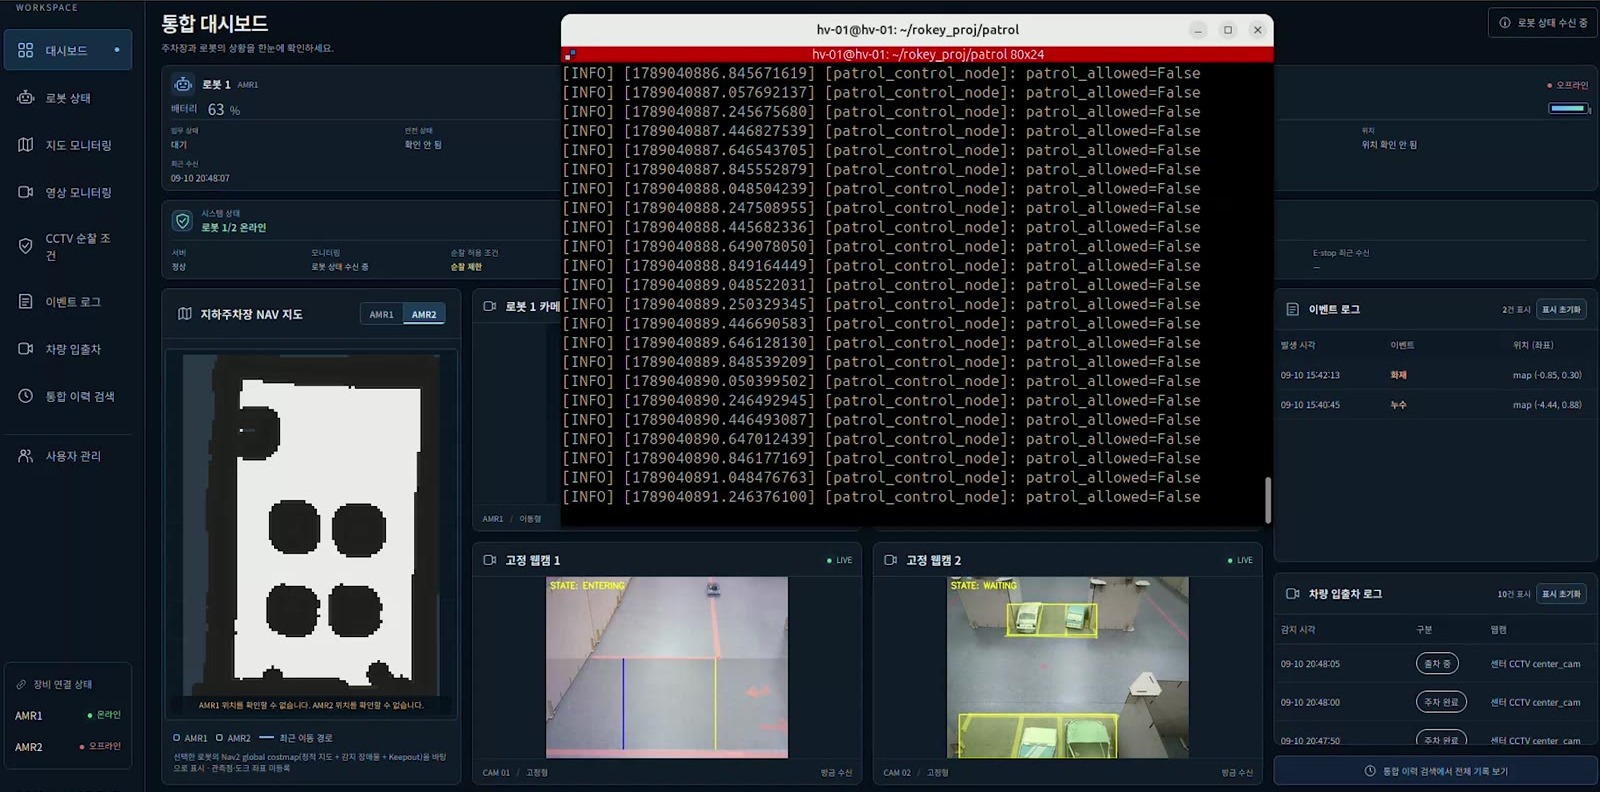
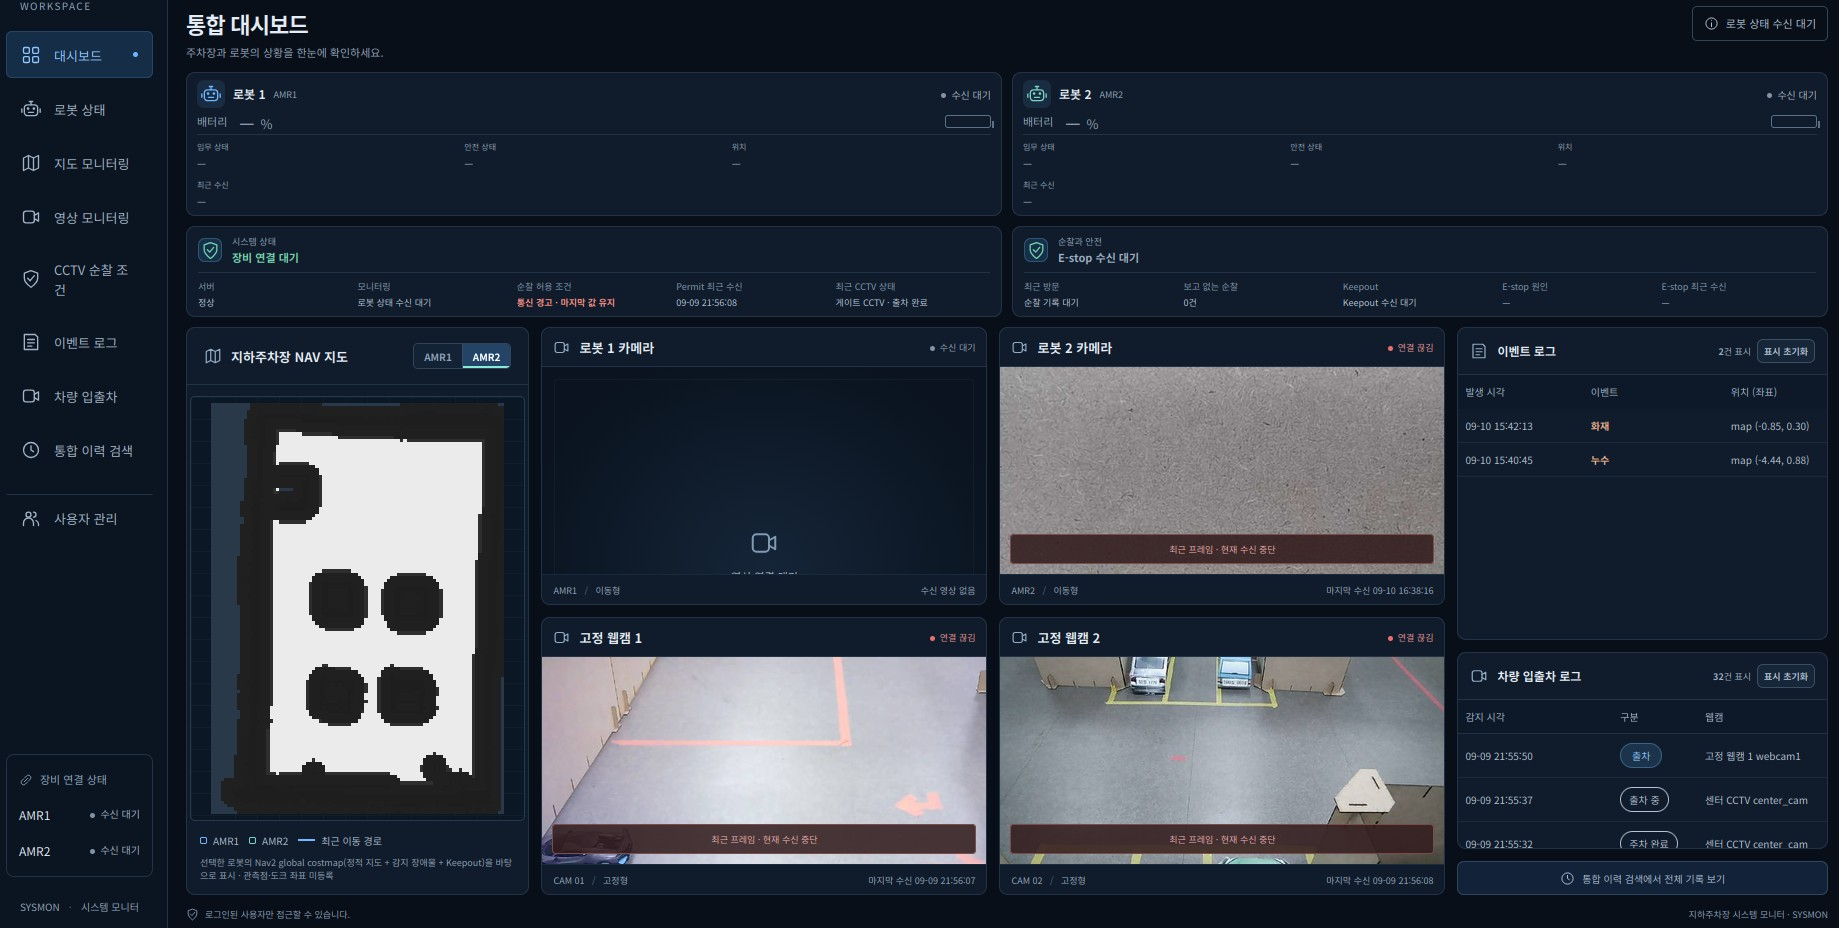
docs: 시스템 모니터 대시보드 사진을 발표 자료 원본 캡처로 교체

diff --git a/README.md b/README.md
@@ -191,7 +191,7 @@ Gate는 차량 bbox 중심이 두 판정선을 어떤 순서로 넘는지 보고
 
 <p align="center">
   <img src="docs/images/dashboard.jpg" width="760" alt="시스템 모니터 통합 대시보드"><br>
-  <sub>통합 대시보드 — 지도 · 로봇 카메라 · CCTV 4분할 영상 · 이벤트와 차량 로그 (가운데는 관제 노드 터미널)</sub>
+  <sub>통합 대시보드 — 로봇 상태, 지도, 로봇 카메라 · CCTV 4분할 영상, 이벤트 로그(화재 · 누수)와 차량 입출차 로그</sub>
 </p>
 
 ## 6. 결과
